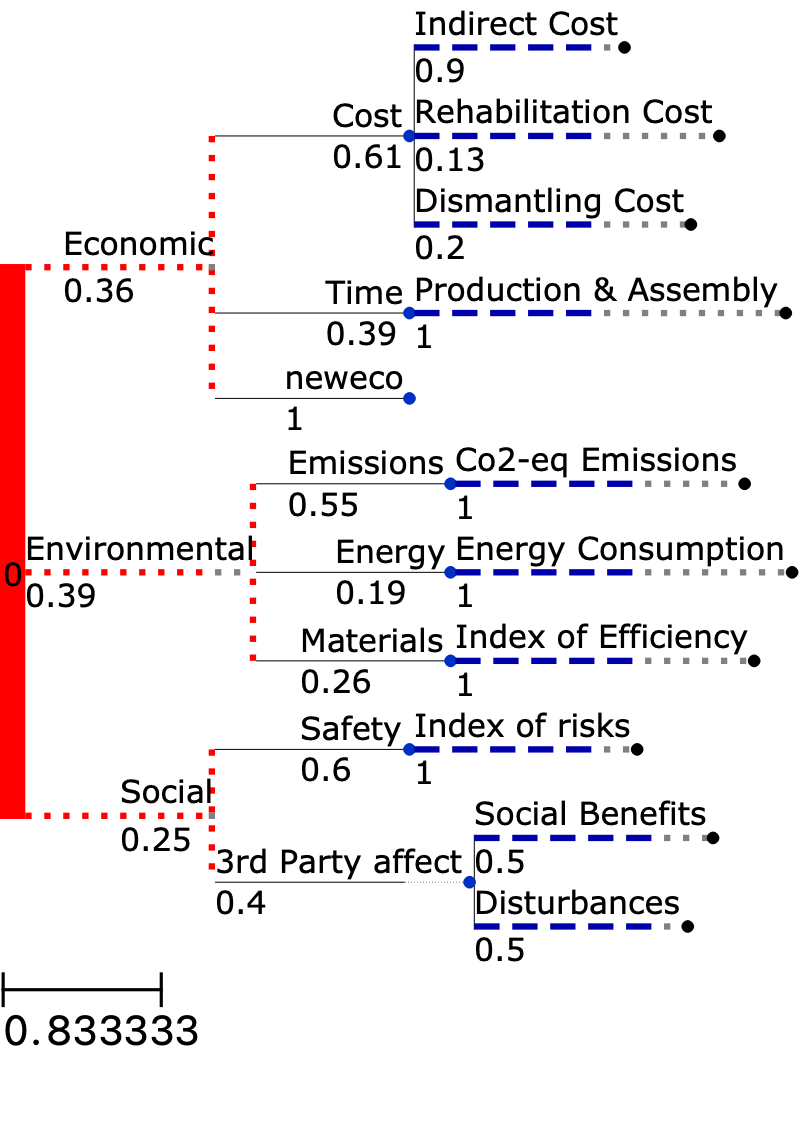
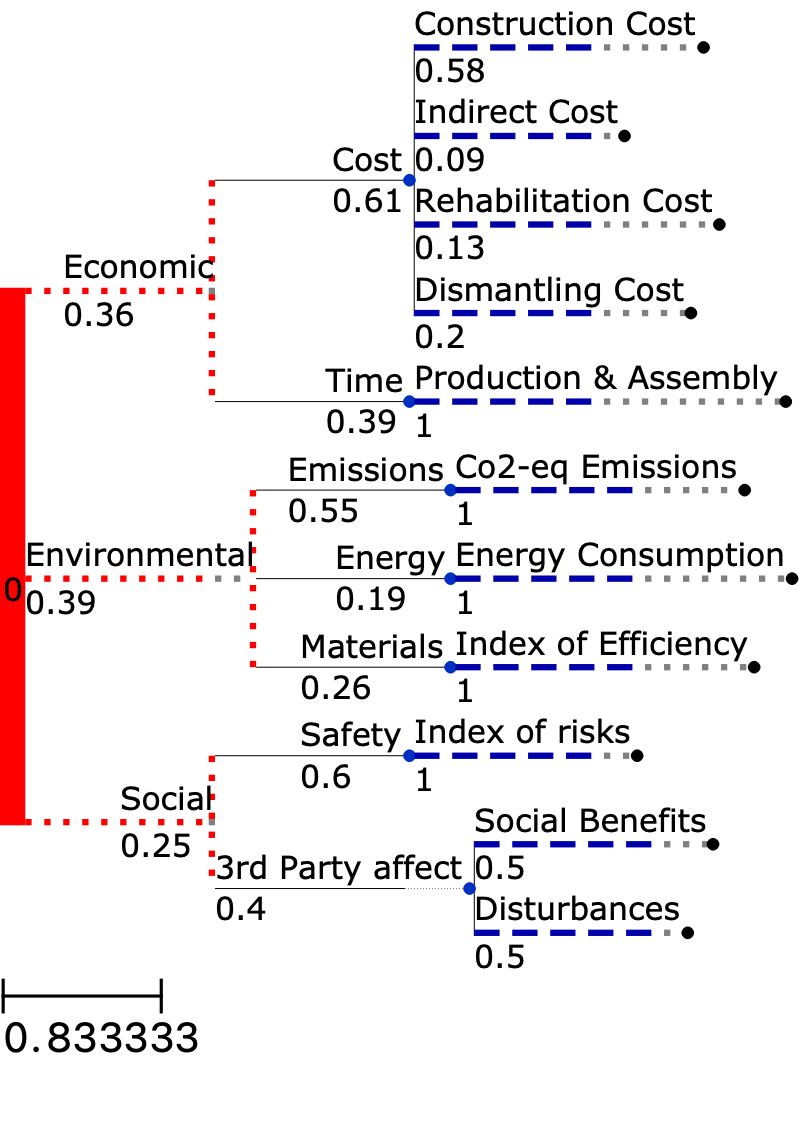
weight checking

diff --git a/mives.py b/mives.py
@@ -35,7 +35,7 @@ class Ui_MainWindow(QMainWindow):
         self.weights["Safety"] = 0.6
         self.weights["3rd Party affect"] = 0.4
         self.weights["Construction Cost"] = 0.58
-        self.weights["Indirect Cost"] = 0.9
+        self.weights["Indirect Cost"] = 0.09
         self.weights["Rehabilitation Cost"] = 0.13
         self.weights["Dismantling Cost"] = 0.2
         self.weights["Production & Assembly"] = 1
@@ -48,6 +48,8 @@ class Ui_MainWindow(QMainWindow):
         self.t, self.ts , self.style, self.style1, self.style2 = self.get_example_tree()
         self.t.render("node_style.png", w=800, tree_style=self.ts)
 
+
+        print(self.check_weights(self.t))
 
         MainWindow.setObjectName("MainWindow")
         MainWindow.resize(1015, 776)
@@ -200,7 +202,22 @@ class Ui_MainWindow(QMainWindow):
         MainWindow.setWindowTitle(_translate("MainWindow", "MainWindow"))
 
 
+    def check_weights(self, tree):
+        if tree.get_children():
+            summation = 0.0
+            for child in tree.get_children():
+                summation = summation + float(self.weights[child.name])
+            if summation == 1:
+                check_children = True
+                for child in tree.get_children():
+                    check_children = check_children and self.check_weights(child)
+                return check_children
+            else:
+                return False
 
+
+        else:
+            return True
 
 
     def update_tree_display(self):
